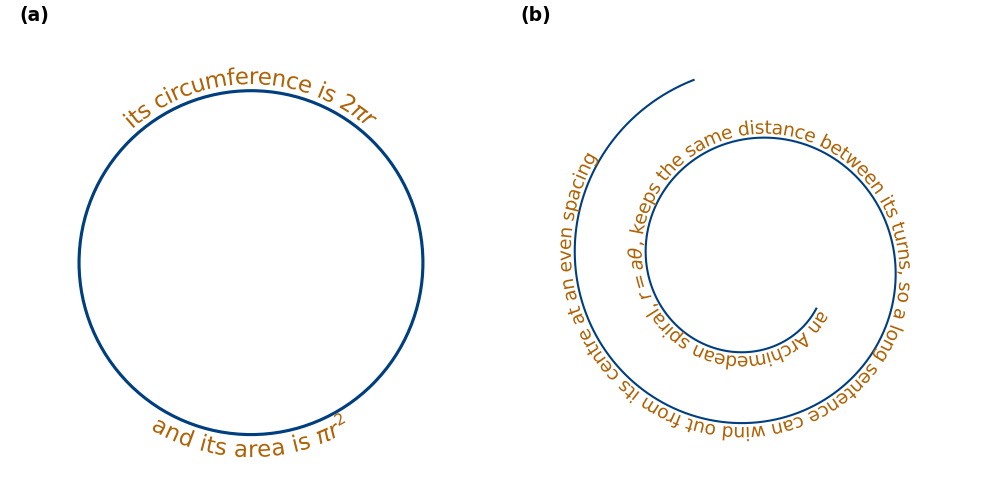
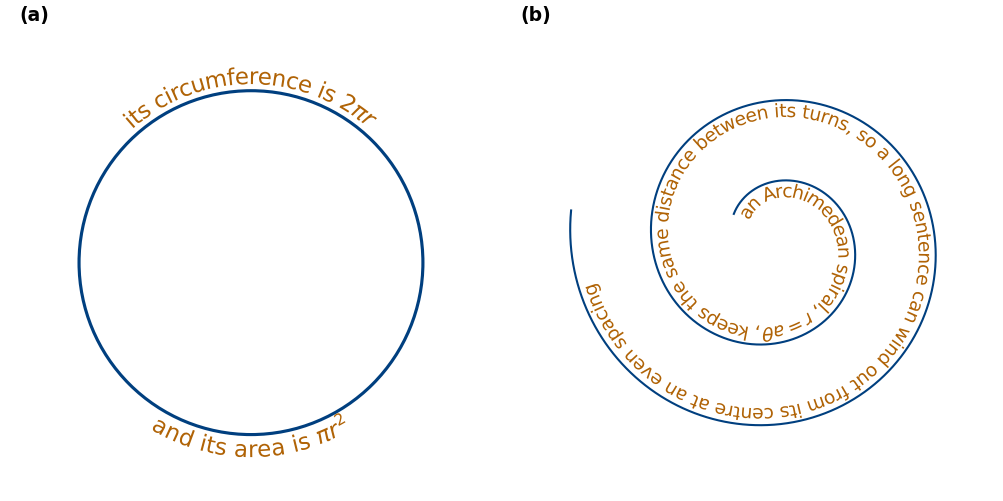
Put the spiral's sentence inside its turns, end the spiral with the sentence, centre it, and drop the crowding it never used

Changed region(s): [[0.5563, 0.1796, 0.9581, 0.8982], [0.6181, 0.2096, 0.6491, 0.2695], [0.6491, 0.1796, 0.68, 0.2096]]

diff --git a/examples/example_22_circle_spiral.py b/examples/example_22_circle_spiral.py
@@ -3,11 +3,10 @@
 (a) A circle labelled on both halves, each traced from nine o'clock to three
 o'clock: the top half clockwise and the bottom half counterclockwise, so both
 labels run left to right on screen and read upright, outside the circle. (b) An
-Archimedean spiral, r = aθ, traced clockwise from near its centre outward:
-its turns keep an even spacing of 2πa, and its curvature grows toward the
-centre, so the label opens its letterspacing there with
-``crowding="curvature"``. Both labels sit outside their curves, to the left
-of a clockwise direction of travel.
+Archimedean spiral, r = aθ, traced clockwise from near its centre outward,
+with a sentence on the inside of its turns, which keep an even spacing of
+2πa. Along the bottom of each turn the text runs right to left on screen and
+reads upside down, as figure 17 explains.
 """
 from __future__ import annotations
 
@@ -25,13 +24,13 @@ SPIRAL_TEXT = (r"an Archimedean spiral, $r = a\theta$, keeps the same distance "
                r"between its turns, so a long sentence can wind out from its "
                r"centre at an even spacing")
 # The spiral's growth per radian, a, so its turns are 2πa apart; and the
-# angles it spans: from just over one turn, where the curvature is high but
-# finite, to where the sentence ends.
+# angles it spans: from just over half a turn, so the first words have room
+# on the inside, to where the sentence ends.
 SPIRAL_A = 1.0
-SPIRAL_THETA = (2.2 * np.pi, 5.4 * np.pi)
-# The axes span -SPIRAL_LIMIT to SPIRAL_LIMIT, fixed apart from the spiral's
-# end: the end is set where the sentence ends at this scale.
-SPIRAL_LIMIT = 20.5
+SPIRAL_THETA = (1.2 * np.pi, 5.05 * np.pi)
+# Half the width of the spiral's axes, in data units, around the spiral's
+# centre: it sets the scale, and so where the sentence ends.
+SPIRAL_HALF_SPAN = 18.0
 
 
 def make(images_dir):
@@ -61,11 +60,16 @@ def make(images_dir):
     r = SPIRAL_A * theta
     x, y = r * np.cos(theta), -r * np.sin(theta)
     ax_spiral.plot(x, y, color=CURVE_COLOR, linewidth=1.0)
+    # A negative offset puts the text to the right of a clockwise travel:
+    # inside each turn.
     curved_text(ax_spiral, x, y, SPIRAL_TEXT, pos=0.0, anchor="start",
-                offset=5.0, crowding="curvature", color=LABEL_COLOR,
-                fontsize=9)
-    ax_spiral.set_xlim(-SPIRAL_LIMIT, SPIRAL_LIMIT)
-    ax_spiral.set_ylim(-SPIRAL_LIMIT, SPIRAL_LIMIT)
+                offset=-5.0, color=LABEL_COLOR, fontsize=9)
+    # Centred on the spiral's extent, not on its origin, which sits off
+    # centre in the drawn shape.
+    centre_x = (x.min() + x.max()) / 2
+    centre_y = (y.min() + y.max()) / 2
+    ax_spiral.set_xlim(centre_x - SPIRAL_HALF_SPAN, centre_x + SPIRAL_HALF_SPAN)
+    ax_spiral.set_ylim(centre_y - SPIRAL_HALF_SPAN, centre_y + SPIRAL_HALF_SPAN)
 
     for ax in (ax_circle, ax_spiral):
         bare(ax)
